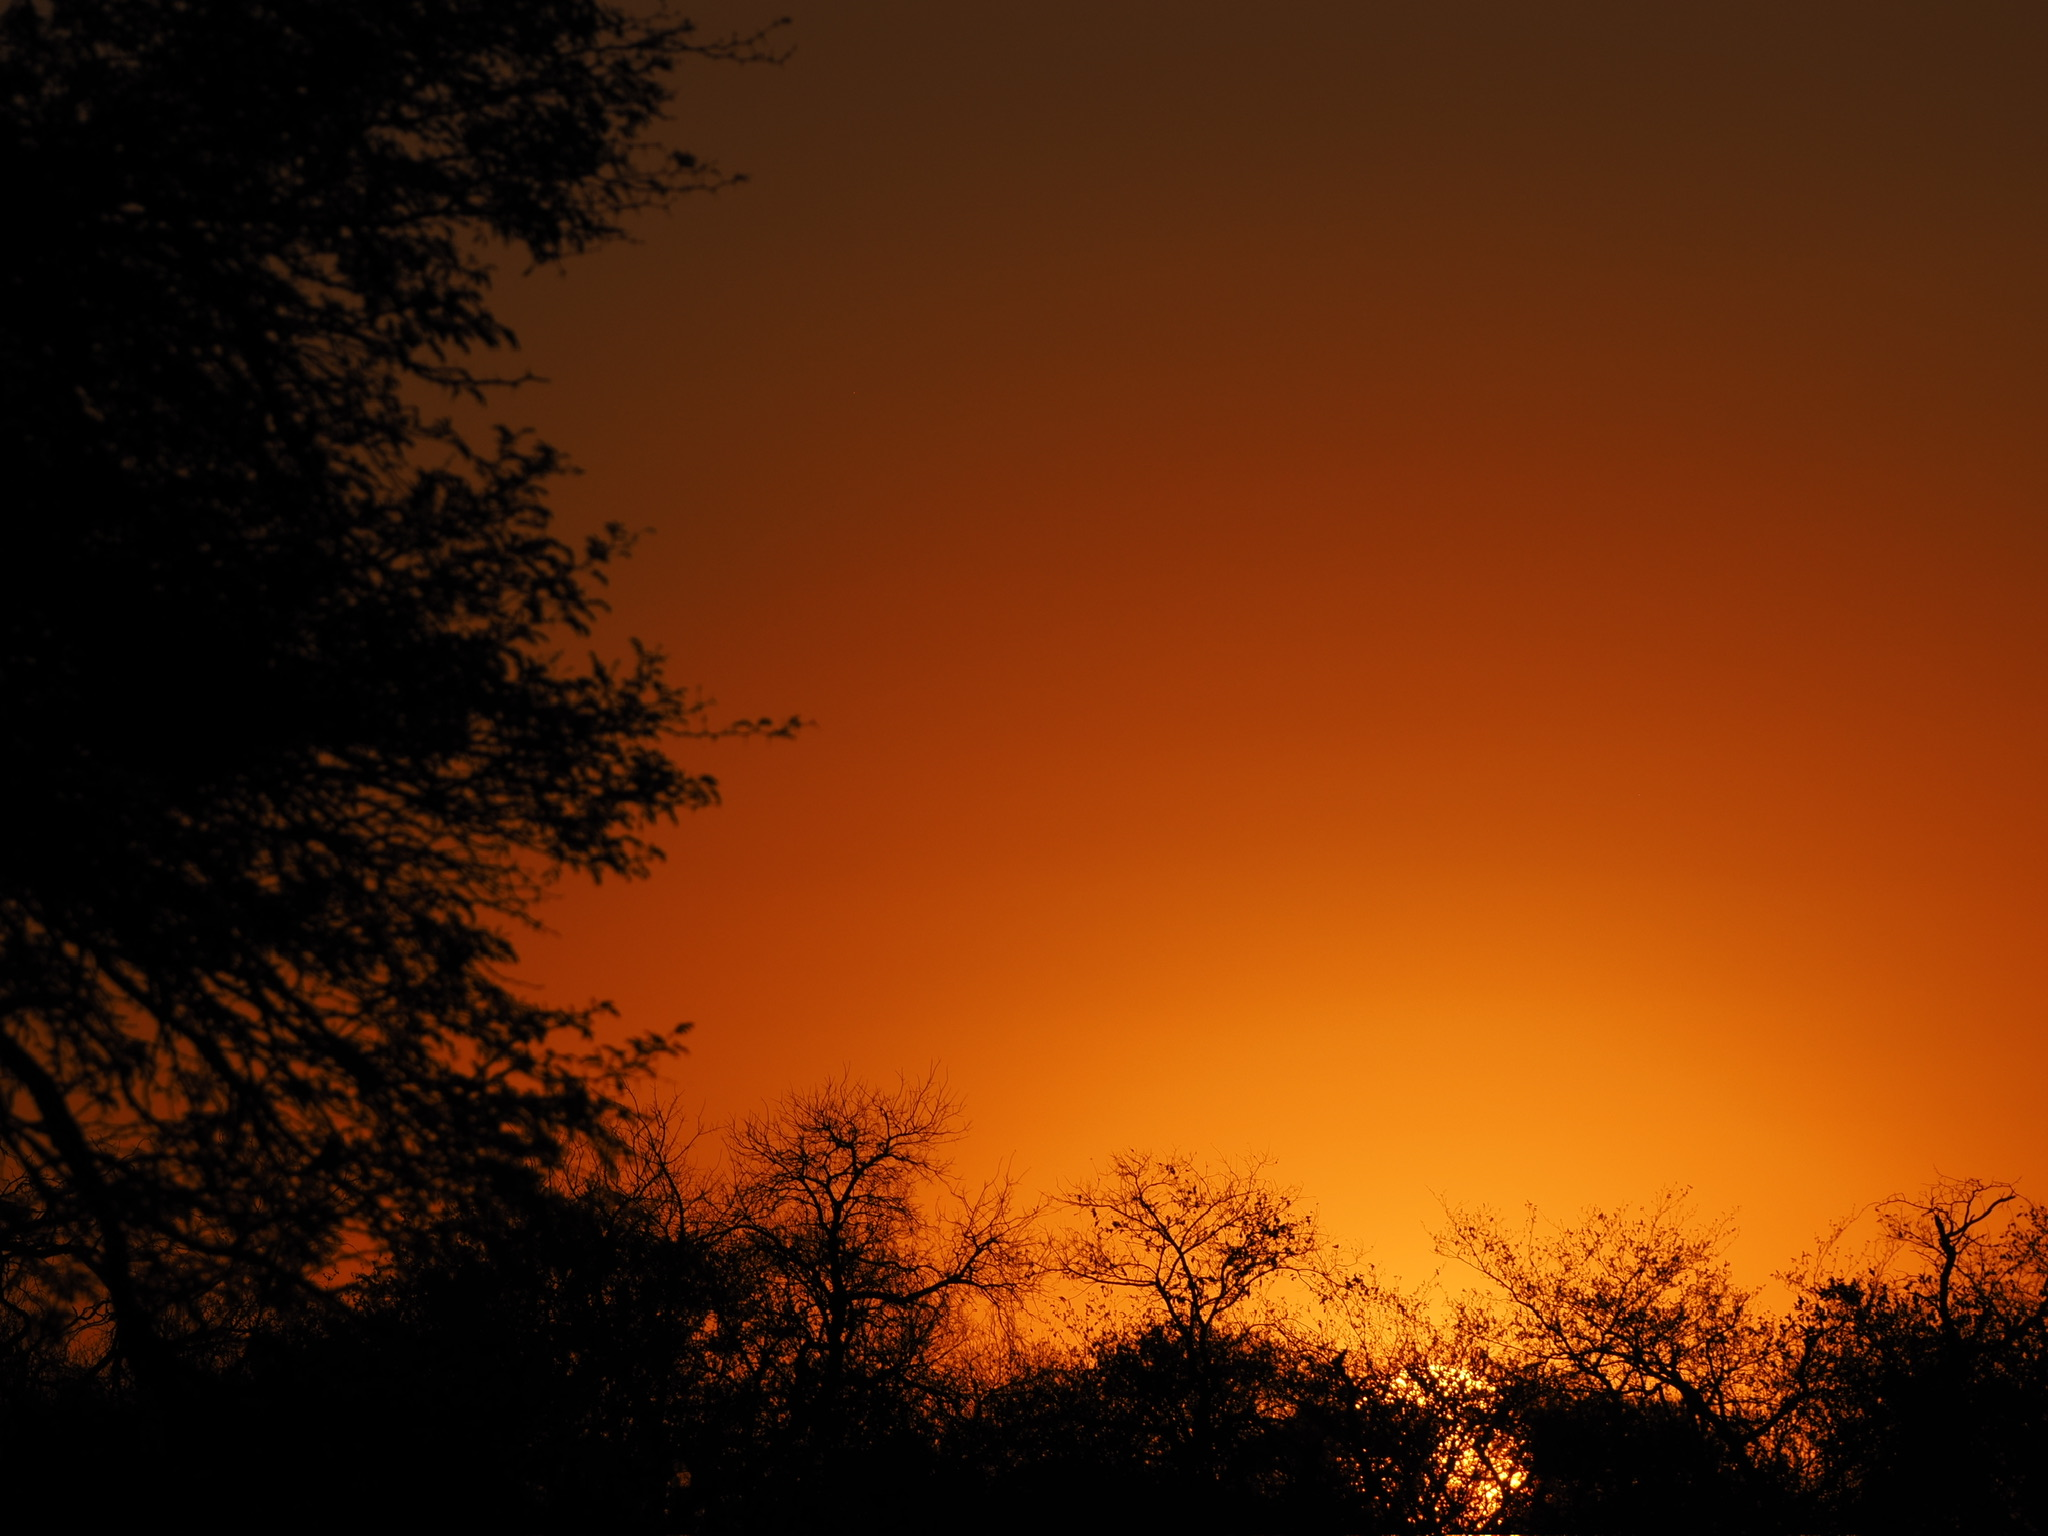
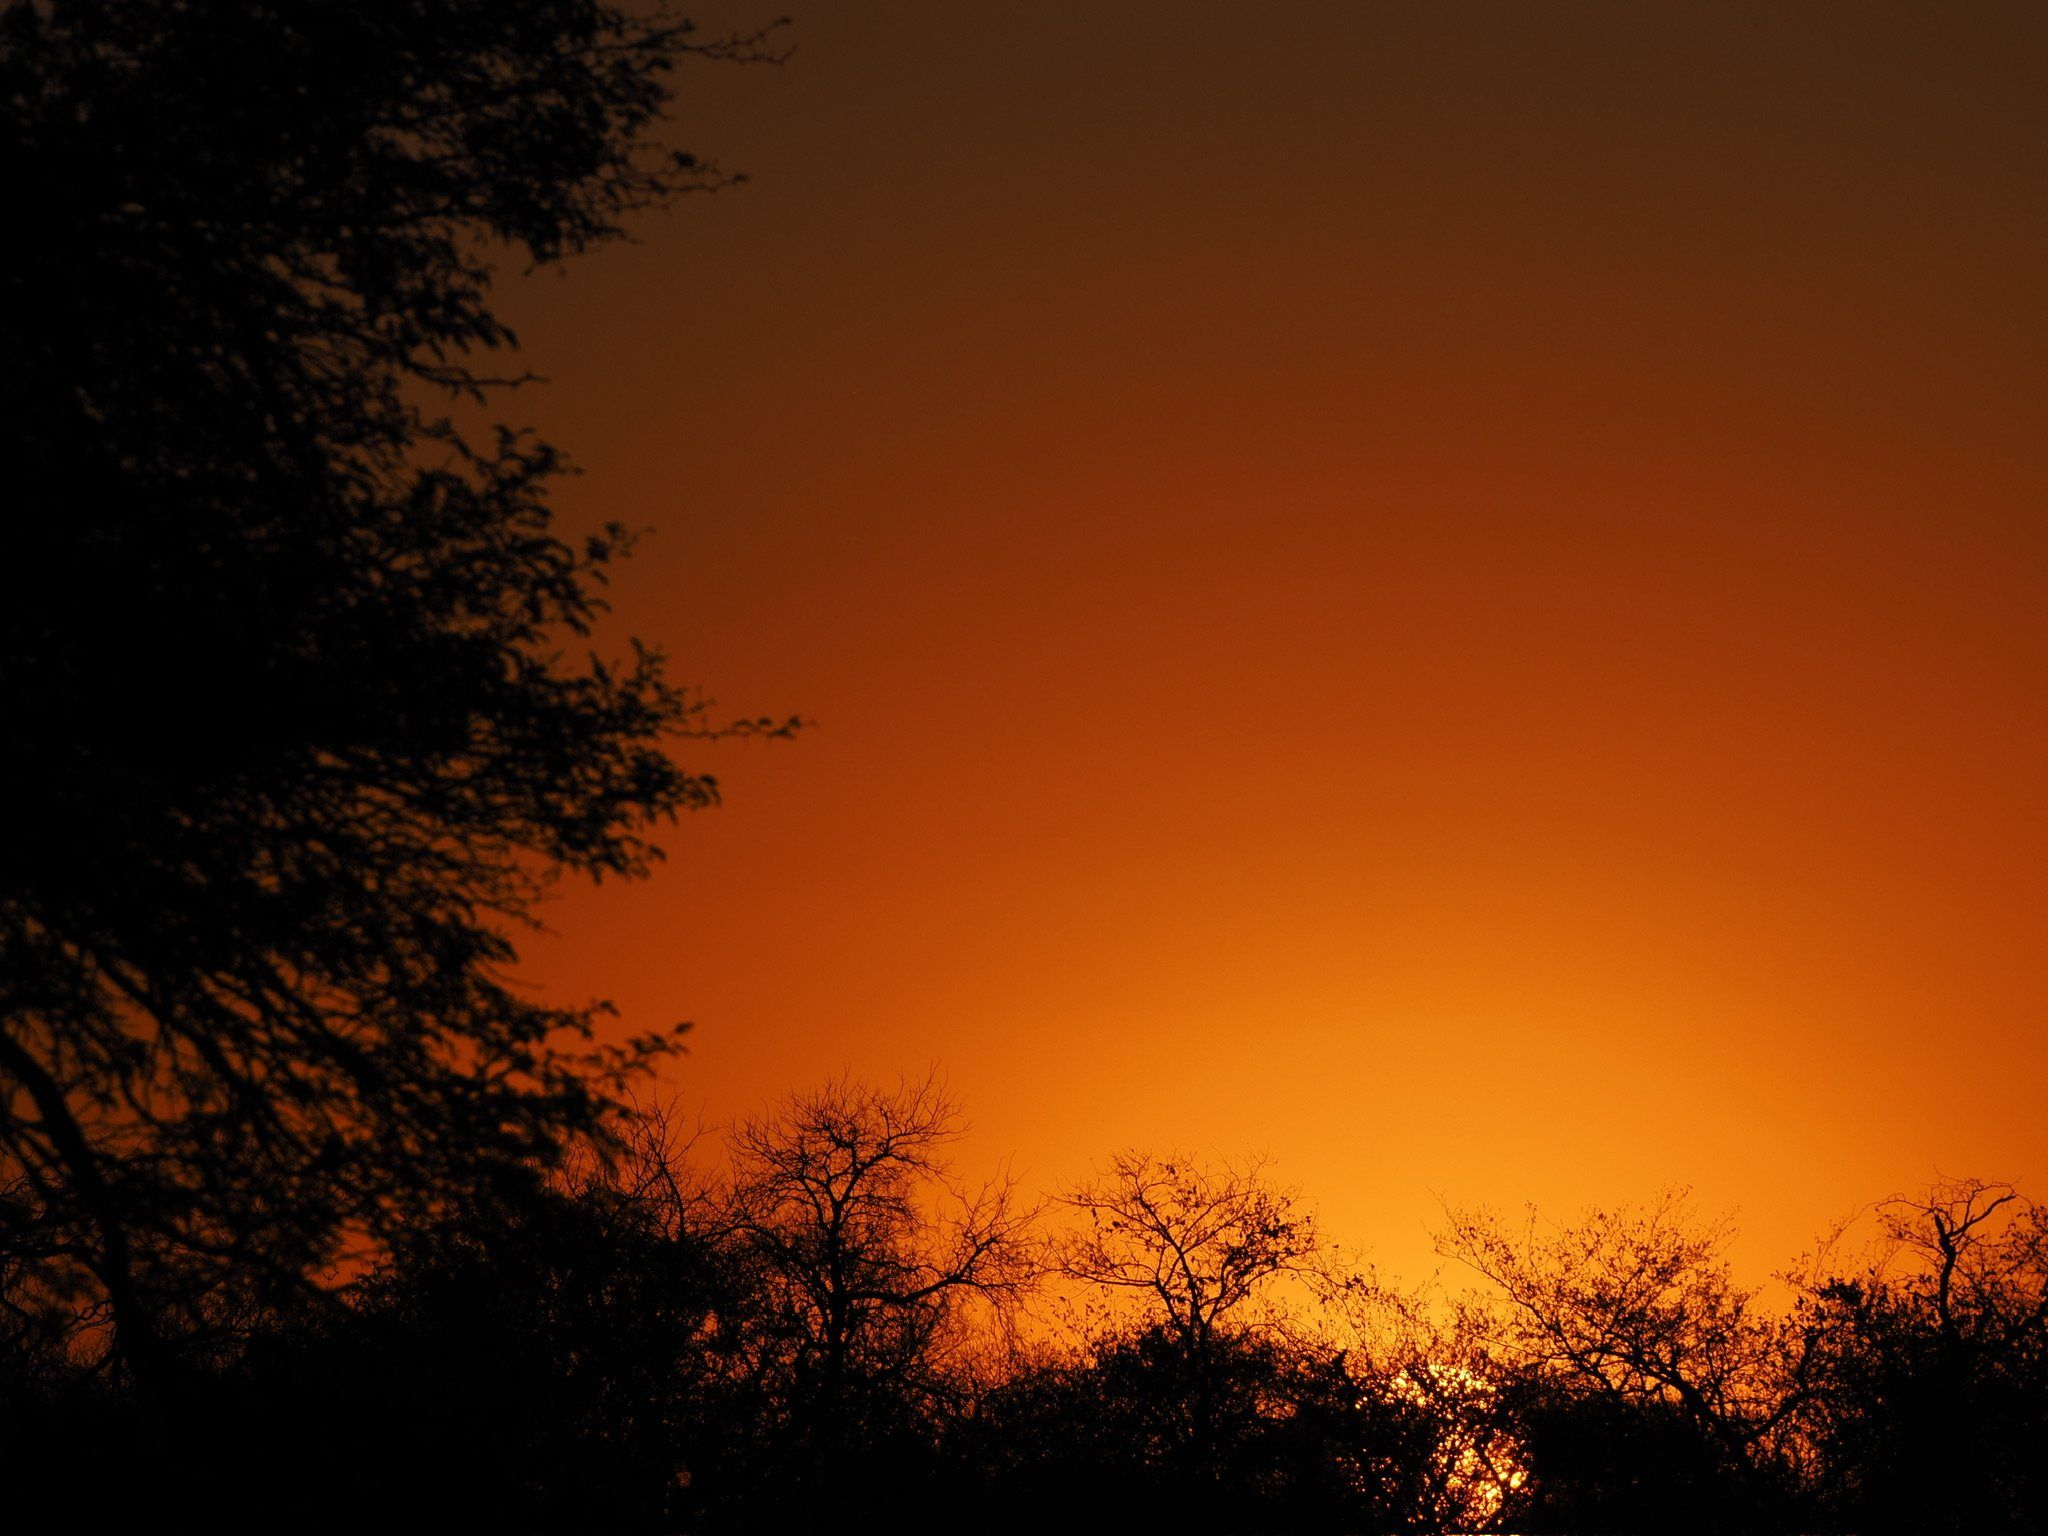
chore: use compressed photography/ images

diff --git a/templates/photography.html b/templates/photography.html
@@ -16,8 +16,9 @@
 {% block content %}
 	<div class="container">
 		<h1 class="display-5">Photos from around the world</h1>
-		<p class="lead my-4 pb-3">The camera settings of each photo are retrieved automatically from my camera.<br>
-		If you are interested in using one of my photos, <a class="links" href="{{ url_for('contact', social='email') }}" title="Send me an email">reach out</a>.</p>
+		<p class="lead mt-4 pb-3">The camera settings of each photo are retrieved automatically from my camera.<br>
+		If you are interested in using one of my photos in original quality, <a class="links" href="{{ url_for('contact', social='email') }}" title="Send me an email">reach out</a>.</p>
+		<sup>To optimize web performance, images are reduced in quality by up to 20%, saving over 40% file size.</sup>
 	</div>
 
 	<div class="is-preload">
